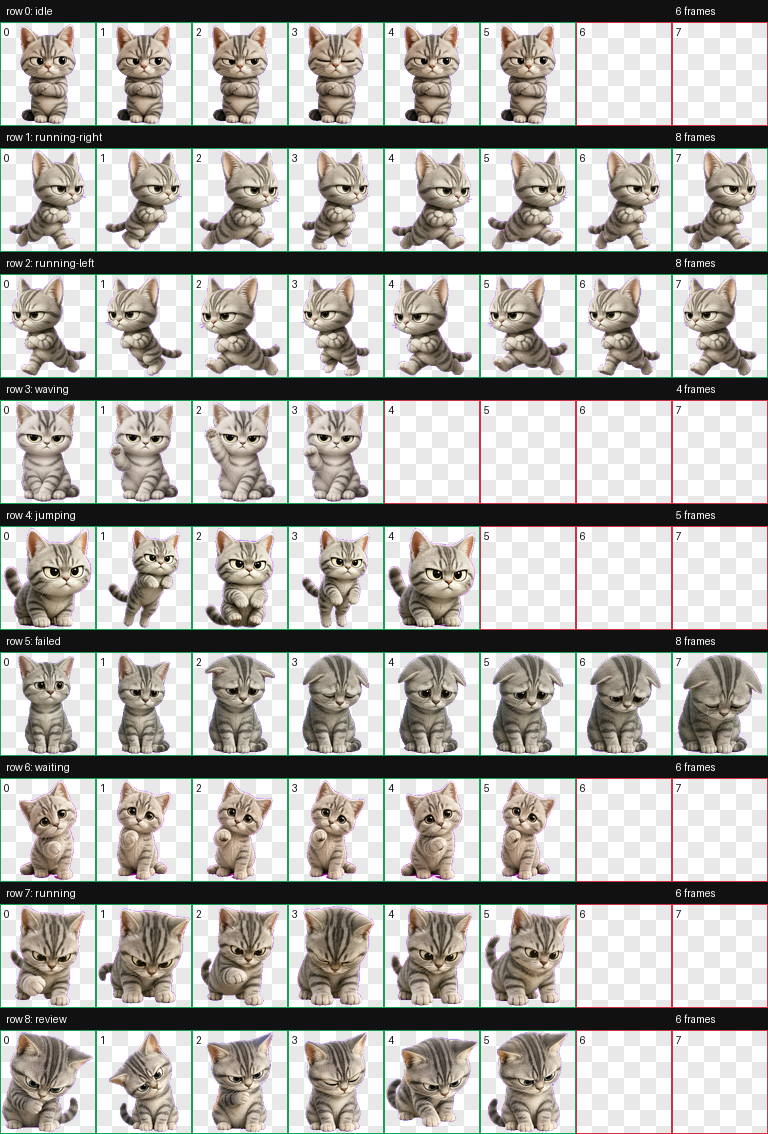
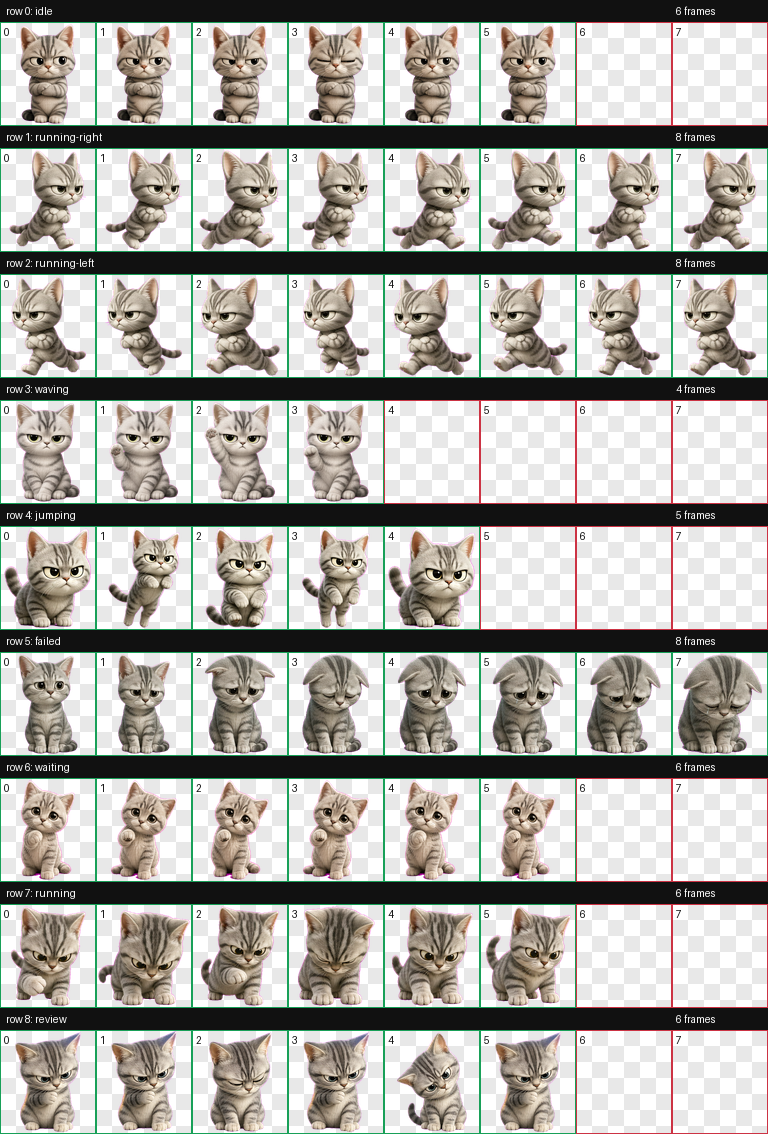
Polish Larry v3 animation package

diff --git a/scripts/validate-package.py b/scripts/validate-package.py
@@ -70,8 +70,8 @@ def read_png_size(path):
 def main():
     manifest = json.loads(PET_JSON.read_text())
     required = {
-        "id": "larry-david-v2",
-        "displayName": "Larry David v2",
+        "id": "larry-david-v3",
+        "displayName": "Larry David v3",
         "spritesheetPath": "spritesheet.webp",
     }
     for key, value in required.items():

diff --git a/README.md b/README.md
@@ -2,11 +2,11 @@
 
 A small desktop pet package built around my very unimpressed silver tabby.
 
-Larry is based on my cat: a skeptical silver-gray tabby kitten with huge thoughtful eyes, crossed paws, and smoother animation. This repo keeps the finished pet files, preview images, and a simple validation check in one place.
+Larry is based on my cat: a skeptical silver-gray tabby kitten with huge thoughtful eyes, crossed paws, and polished animation states. This repo keeps the finished pet files, preview images, and a simple validation check in one place.
 
 ## Preview
 
-![Larry David v2 contact sheet](qa/contact-sheet.png)
+![Larry David v3 contact sheet](qa/contact-sheet.png)
 
 Individual state previews:
 
@@ -37,7 +37,7 @@ That copies the pet into the target pet folder.
 To make Larry active, set:
 
 ```toml
-selected-avatar-id = "custom:larry-david-v2"
+selected-avatar-id = "custom:larry-david-v3"
 ```
 
 in your local app config, then wake or restart the app if needed.

diff --git a/docs/package-notes.md b/docs/package-notes.md
@@ -1,6 +1,6 @@
 # Package Notes
 
-Larry David v2 is packaged as a compact 8x9 desktop pet spritesheet with a matching manifest and preview images.
+Larry David v3 is packaged as a compact 8x9 desktop pet spritesheet with a matching manifest and preview images.
 
 ## Source Files
 
